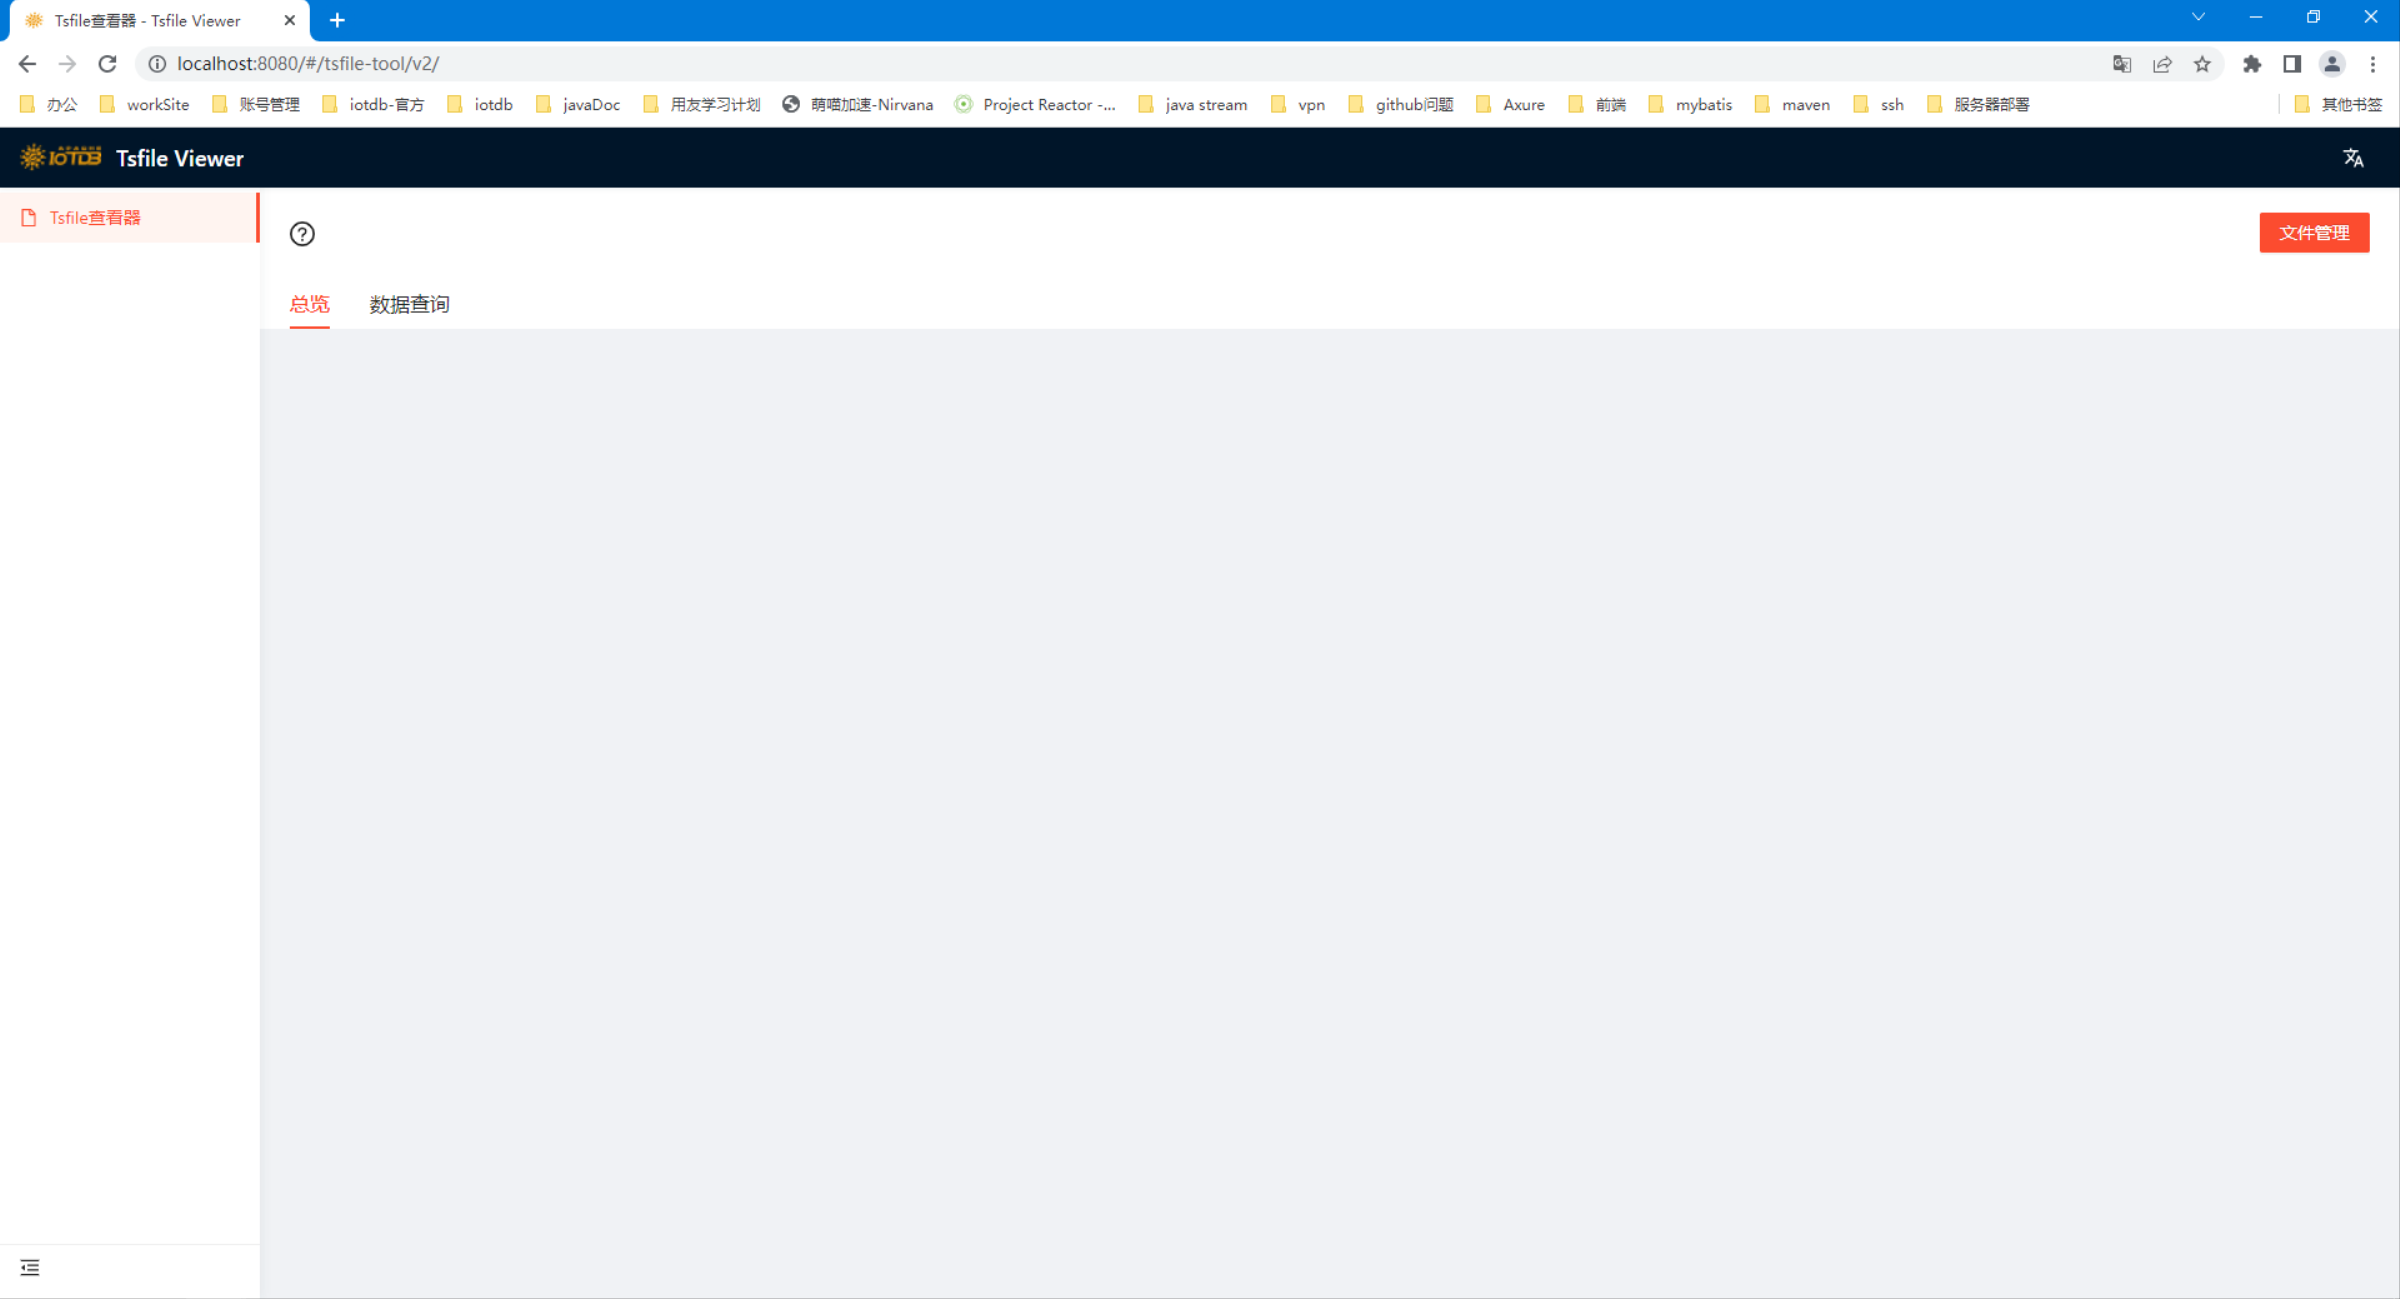
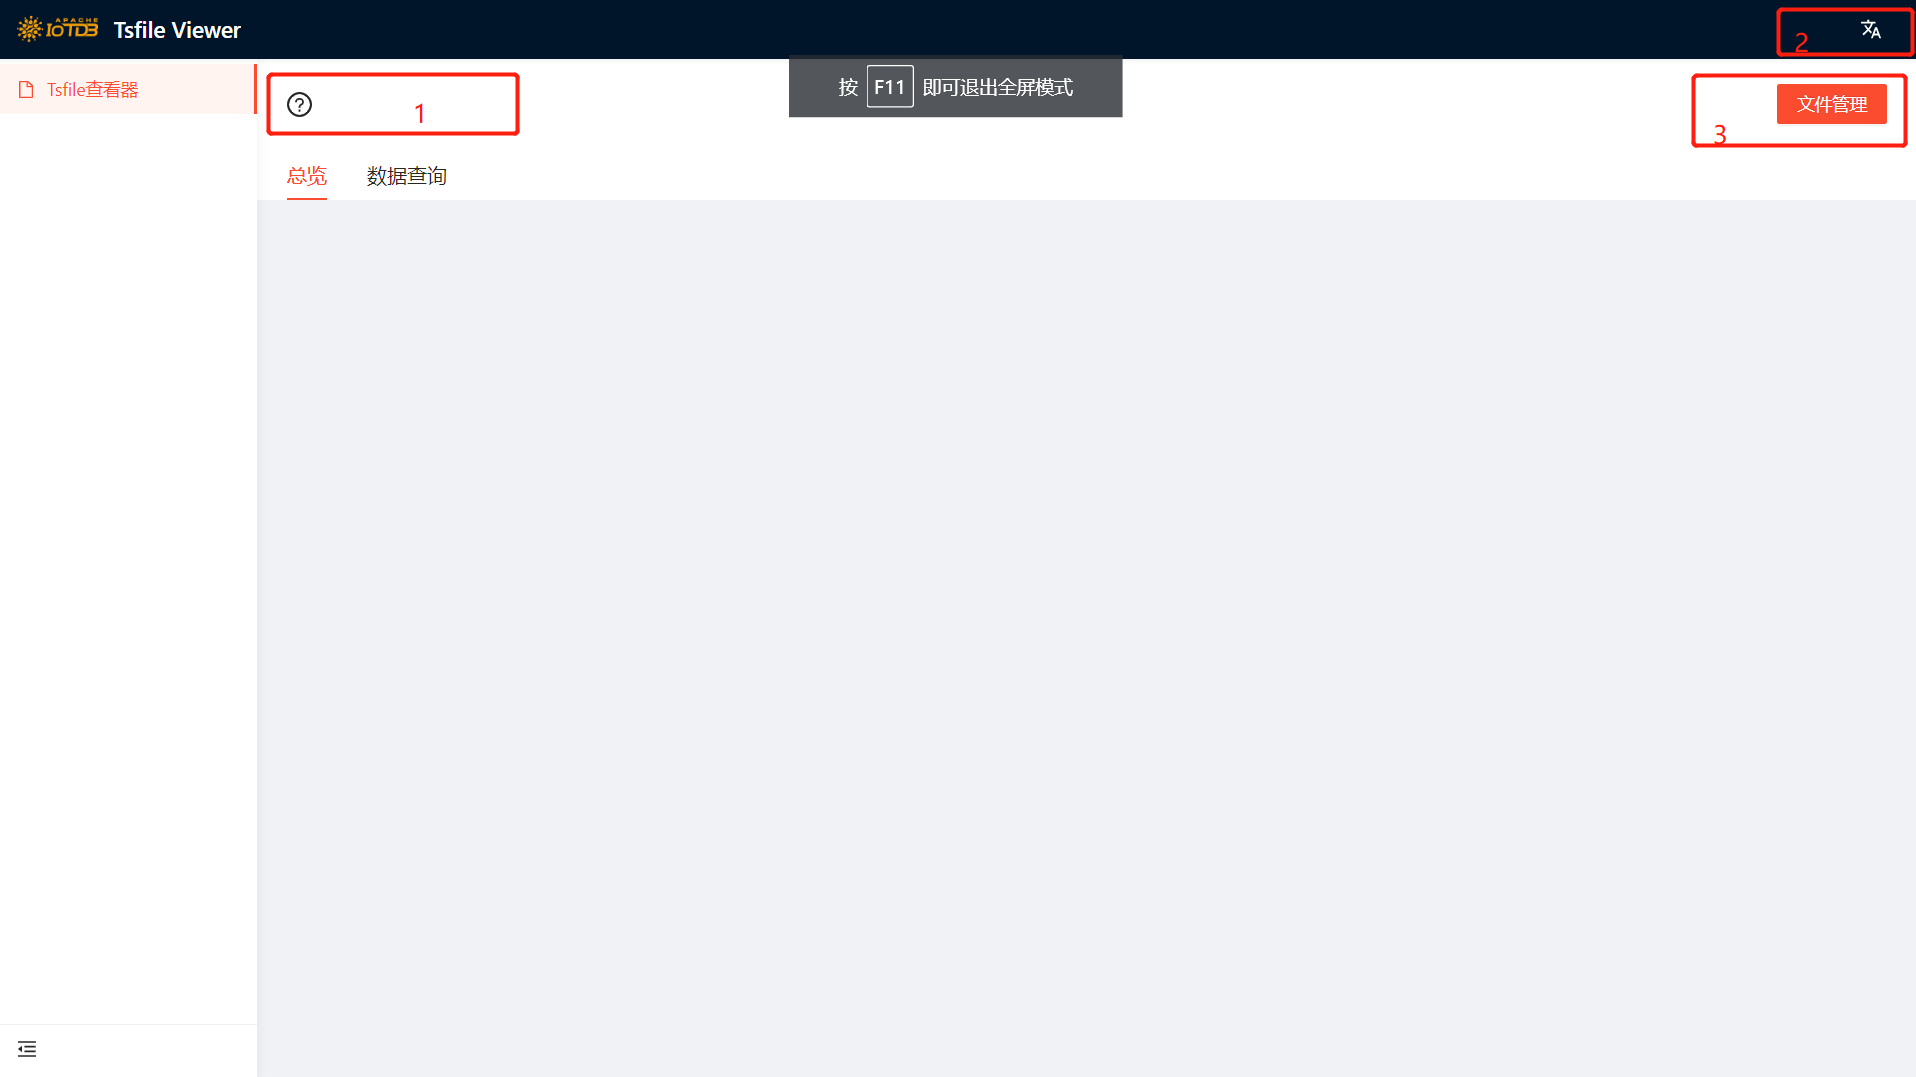
add user guide

Changed region(s): [[0.0, 0.0, 1.0, 0.2145], [0.1232, 0.2145, 0.1848, 0.2451], [0.0, 0.9499, 0.0308, 0.9805]]

diff --git a/README.md b/README.md
@@ -27,7 +27,7 @@
 - [Quick Start](#quick-start)
     - [Prerequisites](#Prerequisites)
     - [Compile](#Compile)
-- [User Guide](#User Guide)
+- [User Guide](#user-guide)
 - [Maintainers](#Maintainers)
 - [Contributing](#Contributing)
 - [Contributors](#Contributors)
@@ -102,7 +102,49 @@ tsviewer:
 # User Guide
 
 When you visit http://locallhost:8080, you will get the following page.  
-![image](/imgs/entry.png)
+![image](/imgs/entry.png)  
+- 1 you can get some tips when your mouse over this icon
+- 2 multilingual switching
+- 3 file management,when you click this button, you will get the following page.  
+
+![image](/imgs/file-management.png)
+- 1 click to change the directory
+- 2 the status of the files
+- 3 get the loaded files
+- 4 the operation, open a tsfile, when the file loaded success, you will get the following page.  
+
+![image](/imgs/overview-tsfile.png)
+- 1 ChunkGroups
+- 2 TimeseriesIndexs
+- 3 IndexOfTimeseriesIndexs  
+
+The white blocks are clickable, when you click on them, their corresponding simple information will be displayed on the right.  
+You can get more infos by click the 'more info' block.  
+
+![image](/imgs/chunkgroup.png)  
+
+- 1 the ChunkGroups,the name is the device name
+- 2 the brief info of a ChunkGroup
+- 3 click here to get the Chunks info of a ChunkGroup
+![image](/imgs/chunkinfo.png)  
+
+Click the page node to get pageData.  
+
+![image](/imgs/pagedata.png)
+
+The TimeseriesIndexs is used similarly to ChunkGroups  
+
+![image](/imgs/timeseriesindex.png)
+
+Display the index structure in the form of a tree  
+
+![image](/imgs/indexoftimeseriesindex.png)
+
+![image](/imgs/indexoftimeseriesindex-chunk.png)
+
+Data Search function:  
+![image](/imgs/datasearch.png) 
+
 
 # Maintainers
 
